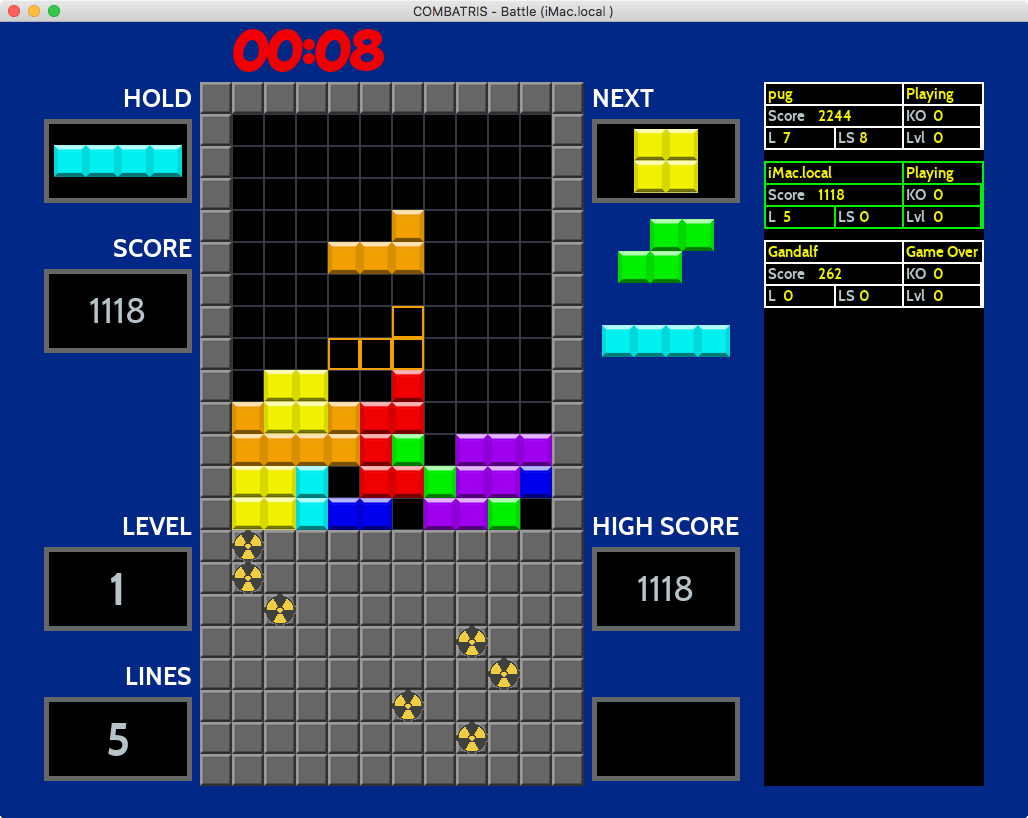
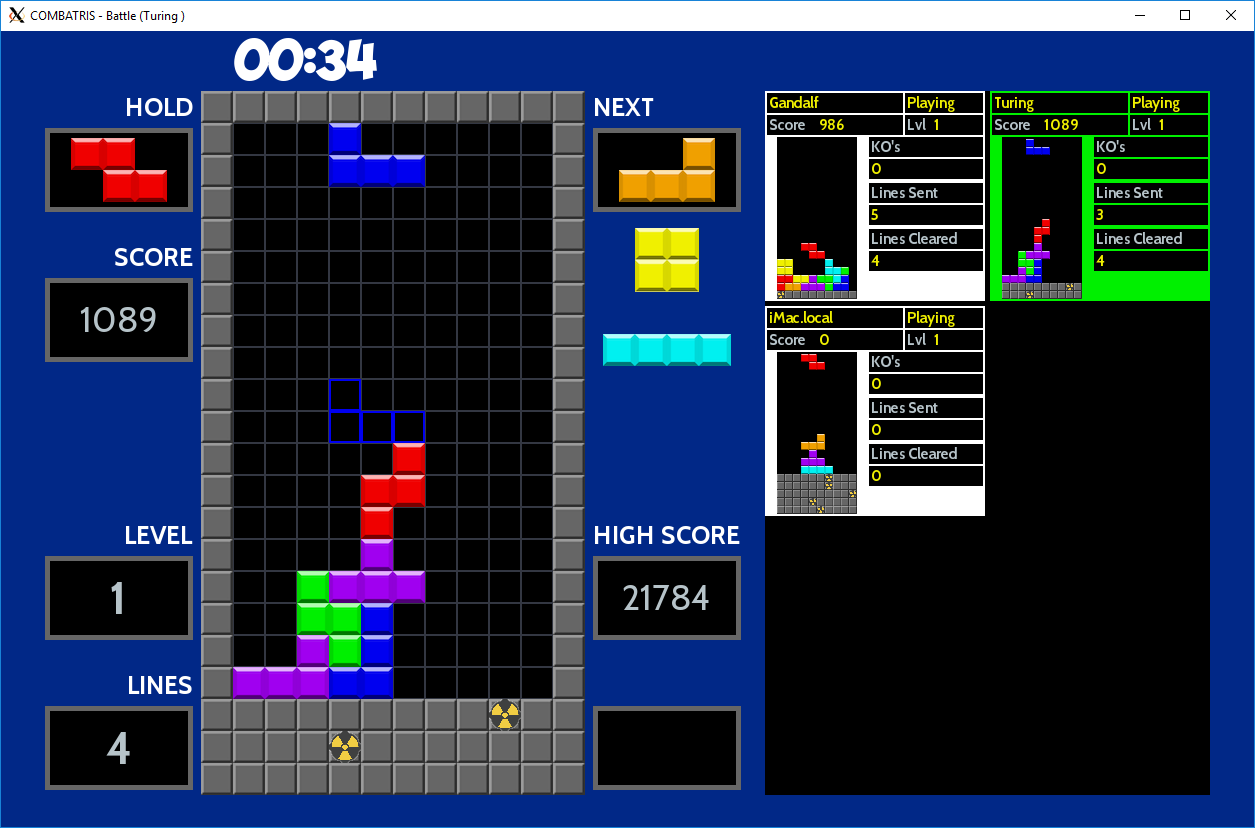
UI for multiplayer done

diff --git a/combatris/src/game/panes/player.cpp b/combatris/src/game/panes/player.cpp
@@ -4,9 +4,11 @@ using namespace network;
 
 namespace {
 
-const int kPlayerMinoWidth = 10;
-const int kPlayerMinoHeight = 10;
+const int kPlayerMinoWidth = 8;
+const int kPlayerMinoHeight = 8;
 const int kLineThinkness = 2;
+const int kMatrixStartPosX = 12;
+const int kMatrixStartPosY = 48;
 
 const SDL_Rect kNameFieldRc = { kX, kY, 140, 24 };
 const SDL_Rect kStateFieldRc = { kX + 138, kY, 82, 24 };
@@ -14,13 +16,13 @@ const SDL_Rect kScoreCaptionFieldRc = { kX, kY + 22, 140, 24 };
 const SDL_Rect kScoreFieldRc = { kX + 50, kY + 22, 140, 24 };
 const SDL_Rect kLevelCaptionFieldRc = { kX + 138, kY + 22, 82, 24 };
 const SDL_Rect kLevelFieldRc = { kX + 165, kY + 22, 82, 24 };
-const SDL_Rect kMatrixFieldRc = { kX, kY + 44, 104, 206 };
 const SDL_Rect kKOCaptionFieldRc = { kX + 102, kY + 44, 118, 24 };
 const SDL_Rect kKOFieldRc = { kX + 102, kY + 66, 118, 24 };
 const SDL_Rect kLinesSentCaptionFieldRc = { kX + 102, kY + 90, 118, 24 };
 const SDL_Rect kLinesSentFieldRc = { kX + 102, kY + 112, 118, 24 };
 const SDL_Rect kLinesCaptionFieldRc = { kX + 102, kY + 136, 118, 24 };
 const SDL_Rect kLinesFieldRc = { kX + 102, kY + 158, 118, 24 };
+const SDL_Rect kMatrixFieldRc = { kX + 10, kY + 44, 84, 166 };
 
 const Font kTextFont(Font::Typeface::Cabin, Font::Emphasis::Bold, 15);
 
@@ -163,22 +165,24 @@ void Player::Render(int x_offset, int y_offset, GameState state, bool is_my_stat
   if (GameState::Waiting == state || GameState::Idle == state) {
     return;
   }
-  int x = 0;
-  int y = 0;
+  int x_pos = 0;
+  int y_pos = 0;
 
   for (int row = 0; row < kVisibleRows; ++row) {
-    x = 0;
+    x_pos = 0;
     for (int col = 0; col < kVisibleCols; ++col) {
       const auto id = matrix_[row][col];
 
       if (kEmptyID == id) {
-        x += kPlayerMinoWidth;
+        x_pos += kPlayerMinoWidth;
         continue;
       }
-      RenderMino(renderer_, kX + 2 + x + x_offset, kY + 48 + y + y_offset, kPlayerMinoWidth, kPlayerMinoHeight,
-                 tetrominos_[id - 1]->texture());
-      x += kPlayerMinoWidth;
+      const int x = kX + kMatrixStartPosX + x_pos + x_offset;
+      const int y = kY + kMatrixStartPosY + y_pos + y_offset;
+
+      RenderMino(renderer_, x, y, kPlayerMinoWidth, kPlayerMinoHeight, tetrominos_[id - 1]->texture());
+      x_pos += kPlayerMinoWidth;
     }
-    y += kPlayerMinoHeight;
+    y_pos += kPlayerMinoHeight;
   }
 }

diff --git a/combatris/src/game/constants.h b/combatris/src/game/constants.h
@@ -13,9 +13,9 @@ const int kMinoHeight = 32;
 const int kMatrixHeight = (kVisibleRows * kMinoHeight);
 const int kMatrixWidth = (kVisibleCols * kMinoWidth);
 const int kBoxWidth = 220;
-const int kBoxHeight = 250;
+const int kBoxHeight = 210;
 const int kSpaceBetweenBoxes = 5;
-const int kMultiPlayerPaneWidth = (kBoxWidth * 3) + (kSpaceBetweenBoxes * 2);
+const int kMultiPlayerPaneWidth = (kBoxWidth * 2) + kSpaceBetweenBoxes;
 const int kUpperBorderHeight = 60 + kMinoHeight;
 const int kMultiPlayerPaneHeight = kMatrixHeight + (kMinoHeight * 2);
 const int kMultiPlayerWidthAddOn =  kMultiPlayerPaneWidth + 24;

diff --git a/combatris/src/game/panes/multi_player.cpp b/combatris/src/game/panes/multi_player.cpp
@@ -118,7 +118,7 @@ void MultiPlayer::Render(double delta_time) {
     player->Render((kBoxWidth + kSpaceBetweenBoxes) * x_offset, (kBoxHeight + kSpaceBetweenBoxes) * y_offset, game_state_,
                    IsUs(player->host_id()));
     x_offset++;
-    if (x_offset > 2) {
+    if (x_offset > 1) {
       y_offset++;
       x_offset = 0;
     }
@@ -234,7 +234,6 @@ void MultiPlayer::GotPlayerKnockedOut(uint64_t host_id) {
   auto& player = players_.at(host_id);
 
   accumulator_.AddKnockedOut(1);
-
   player->SetKO(accumulator_.ko_);
   SortScoreBoard();
 }

diff --git a/README.md b/README.md
@@ -114,12 +114,13 @@ Hard drop | 2 points per cell (Max of 40)
 - [X] Introduce KO in Battle mode
 - [X] Make Battle Mode timer based
 - [X] Wait for all in State waiting to get to Play before starting the game
-- [ ] Introduce Marathon mode for single player campaign.
-- [ ] Sound
-
-**Improvements**
 - [X] In Battle mode show interactive game board for all players instead of current status
-- [ ] Remove the pane for showing combo/latest move and display combo / last move direct on the frame
+- [ ] Introduce Marathon mode for single player campaign
+- [ ] Introduce VS mode for battle campaign
+- [ ] Sound
+- [ ] Remove the pane for showing combo/latest move and display combo/last move direct on the frame
+- [ ] Add KO box and Last lines box in battle
+- [ ] Add possiability to have different UI components based on campaign
 - [ ] Add new animation for combo/last clearing move (expanding text)
 - [ ] Configure which joystick to use (if many available)
 - [ ] Move joystick mapping and other settings to a config-file
